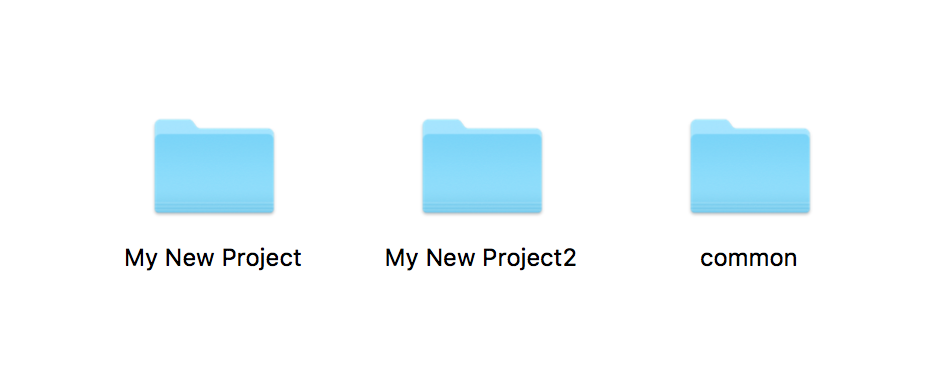
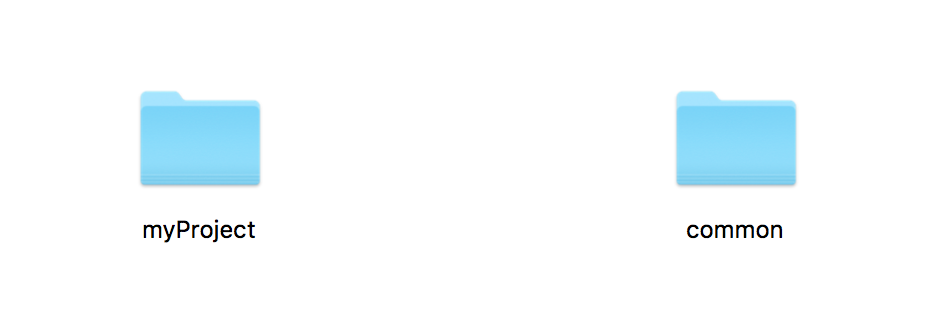
first version

diff --git a/Readme.md b/Readme.md
@@ -12,14 +12,119 @@ With the help of some symlinks we can easify this process, by putting commonly u
 ## How does it work?
 Let me show you the power of this technique by a simple example:
 
-1.	First we create 2 projects right from within Hammer (of course, you can create 2 projects manually as well)
-2. For better readability I renamed the projects to p_ONE and p_TWO
-3. Create another folder 'common' in the same folder as the two projects
-3. Open up your terminal and type in these lines
+*(I am explaining some exact steps for the not-so-experienced folks, so please everybody bear with me)*
+
+*	First we create an empty project right from within Hammer (of course, you can it manually as well)
+* For better readability I renamed the project to 'myProject'
+* Create another folder 'common' in the same folder as the your Hammer project.
+
+Now your folder should look something like this:
+[![browser support](assets/1_structure.png)](https://github.com/tiptronic/hammerlinks/blob/master/assets/1_structure.png)
+
+* Create a folder 'js' in folder 'common'
+* Now move the jQuery-Library  ('jquery-1.8.3.min.js' at the time of this writing) from folder 'myProject/js' into folder 'common/js'
+* Remove the jQuery-Library from folder 'js' in 'myProject'
+
+Fire up your terminal and type in 
 
 ```
-$ cd /Users/andy/hammertest/p_ONE/assets/js
-$ ln -s /Users/andy/hammertest/common/js/jquery-1.8.3.min.js
-$ ln -s /Users/andy/hammertest/common/js/app.js
+$ ln -s 
 ```
+followed by a space character.
+
+--
+*With 'ln' you create a link in UNIX/LINUX. The '-s' option lets us create a `symlink`, which is a hard link to the original file (which means your computer treats it as if it were the original file).*
+
+--
+
+Now drag the jQuery Library from the 'js' folder from 'myProject' to the terminal window. It should look like this:
+
+```
+$ ln -s /Users/andy/hammertest/common/js/jquery-1.8.3.min.js
+```
+Drag the 'js' folder from 'myProject' into the terminal window (it get's appended). The command should now look like this:
+
+```
+$ ln -s /Users/andy/hammertest/common/js/jquery-1.8.3.min.js /Users/andy/hammertest/myProject/assets/js
+
+```
+
+--
+*Using this command, you tell your computer to create a link to the jQuery-Library (located in 'common/js') in you project's 'js' folder.*
+
+--
+
+To check out if it works, just hit the ENTER-key on your keyboard (while in terminal, of course).
+
+You should now see a file-icon with a small arrow appear in your project's 'js' folder.
+
+Repeat these steps for any other file (no matter if it's js, css or images)
+
+Your final result could then look something like this:
+[![browser support](assets/2_structure_with_links.png)](https://github.com/tiptronic/hammerlinks/blob/master/assets/2_structure_with_links.png)
+
+As you can see in the screenshot, all symlinks where followed properly and the files from the 'common'-folder were copied to the appropriate Build folder.
+
+Try out creating a second project and add the common-files there as well, then change something e.g. in app.js and see it magically appear in both of your projects.
+
+Enjoy!
+
+## What if you want to sync your project across computers?
+
+Glad you asked!
+
+As you might have realized, the symlinks in our example use absolute paths. So when you move your files (or sync it to a different path on another machine), everything breaks...
+
+**Not good!**
+
+Fortunately our terminal has a solution for this!
+
+## Relative Symlinks
+Although the steps are quite similar as above, we need a tiny change in our terminal command(s):
+
+First we must navigate to our project folder (using the infamous *cd* (change directory) command in the terminal:
+
+```
+$ cd /Users/andy/hammertest/myProject/assets/js
+```
+Now the terminal's working directory is our project's 'js' directory/folder. What's needed is to create a `relative symlink` to our common jQuery-Library.
+
+Fortunately this works exactly as if we were creating a relative file-path in our HTML, which results in this command:
+
+```
+ln -s ../../../common/js/jquery-1.8.3.min.js 
+```
+Hit ENTER and watch the link appear in the project's 'js' folder.
+
+Now you can move the project and the common folder to any other location (or computer) and Hammer will build just fine.
+
+Using this technique you can build your own (relative) folder-structure and keep files organized as you like. When you need to change a file, just replace the source-file - your symlinks will stay intact and still point to the correct (new) file. 
+
+Therefore I always remove version numbers from the source files. In this case I'd rename 'jquery-1.8.3.min.js' to 'jquery.min.js', so if I update the jQuery-library, all of my projects just need to get rebuild and then carry the new library (Don's forget to test your builds afterwards!)
+
+
+## One more thing
+Here's a quick tip, if you want to share a whole bunch of files from a common folder to your project(s). You don't need to move every file after the other. Depending how your assets are organized, you can move all assets at once.
+
+Again, in the terminal cd to the target folder:
+
+```
+$ cd /Users/andy/hammertest/myProject/assets/js
+```
+And create symlinks for all files in your 'js' folder at once:
+
+```
+$ ln -s ../../../common/js/* 
+```
+...that was fast....
+
+
+
+####Please note: Hammer doesn't like symlinked folders, so you can't (for now - *hint, hint*) use Hammer's file references with folders
+
+
+
+
+
+
 
